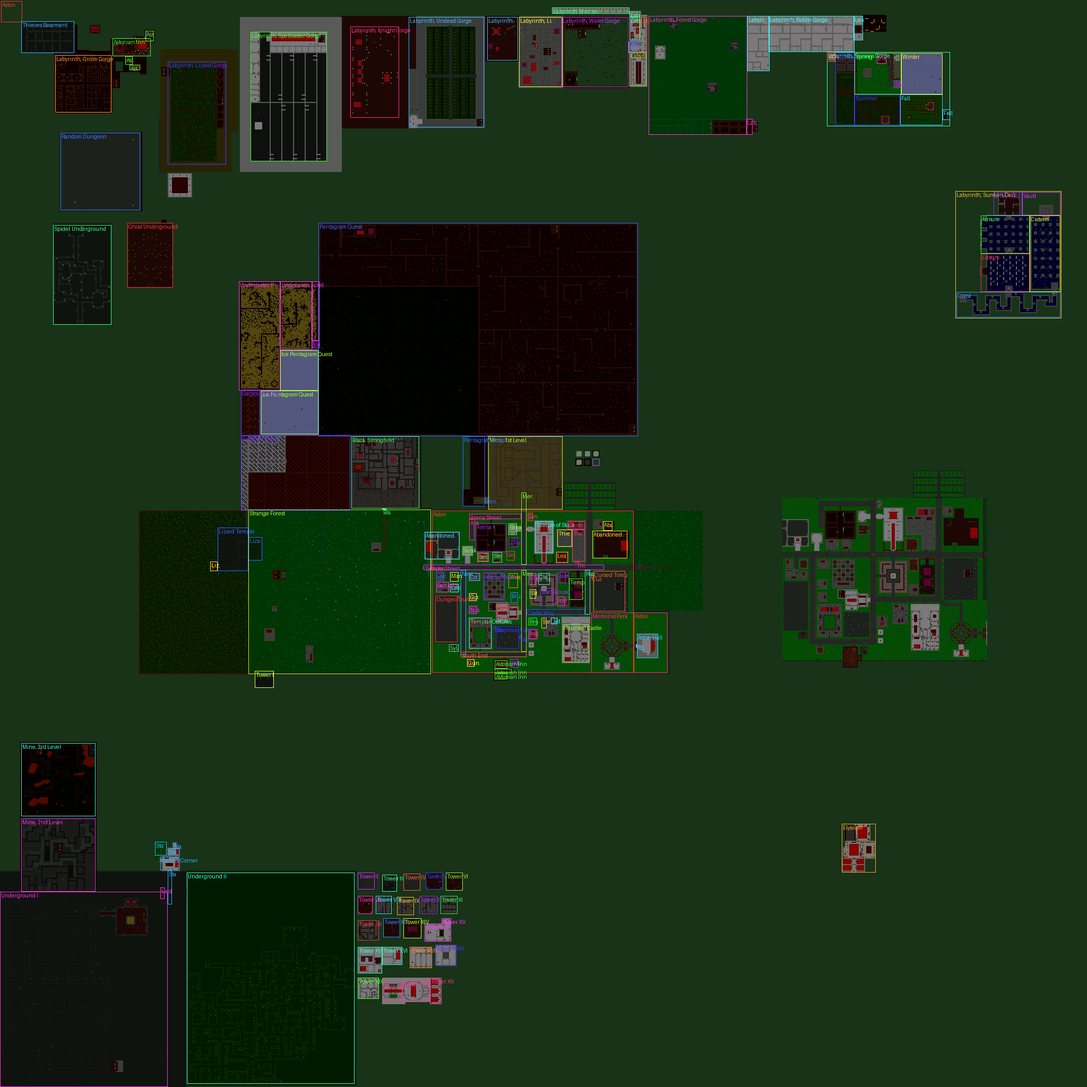
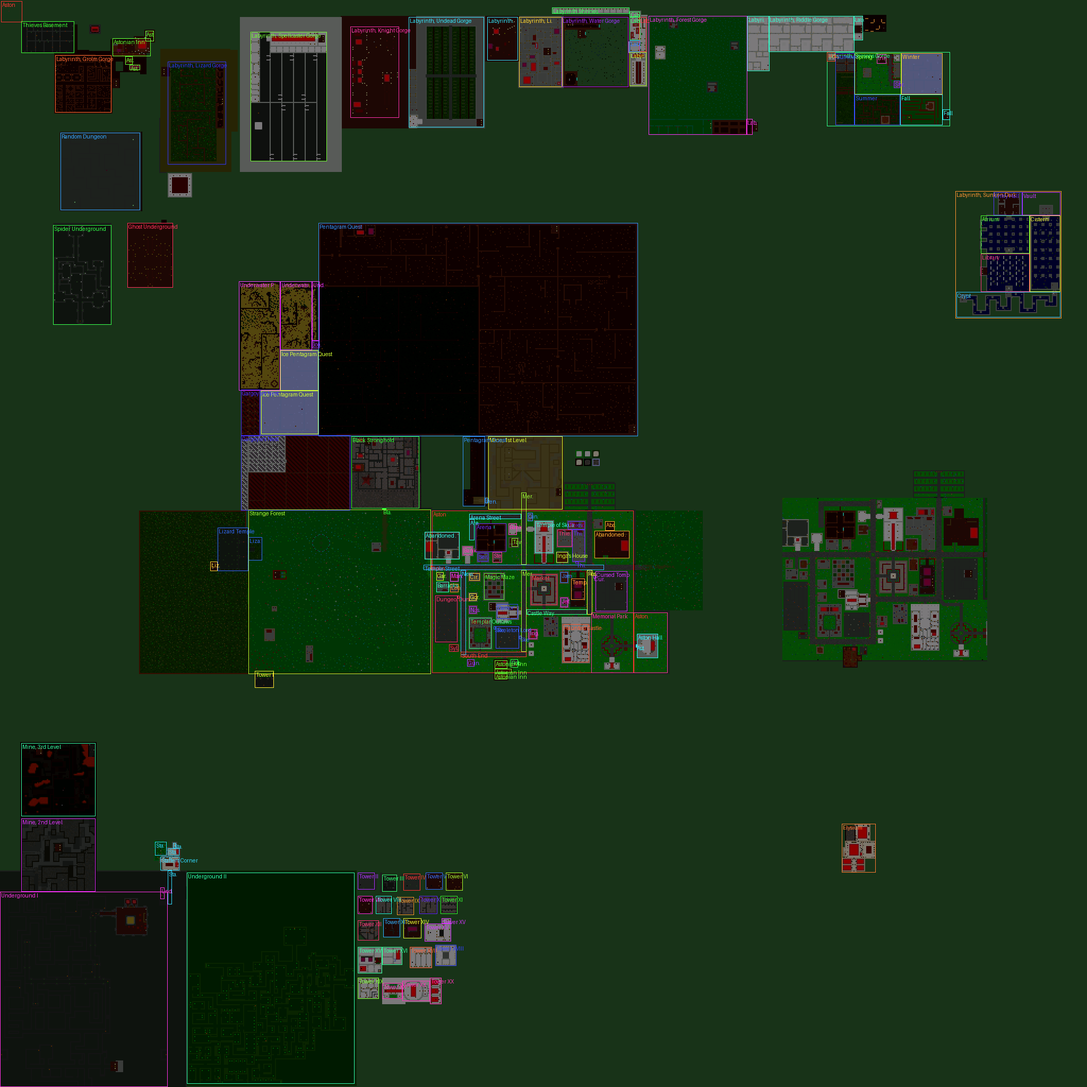
Aston zones after the move: Market, shifted east side, Inga / Jefferson / Jamil, gone shops removed
Claude-Session: https://claude.ai/code/session_01AHK8GgmwgakCxXUFzHRFJm

diff --git a/docs/world_zones.md b/docs/world_zones.md
@@ -17,161 +17,152 @@ Shown by `/who`, by NPCs when asked where you are, and in server logs. A spot in
 | 7 | Underground I | 840,0 | 1023,157 | "in Underground I" |
 | 8 | Underground I | 836,151 | 846,154 | "in Underground I" |
 | 9 | Temple of Skua | 491,504 | 520,520 | "in the Temple of Skua" |
-| 10 | Leather Armor Shop | 520,524 | 529,534 | "in the Leather Armor Shop" |
-| 11 | Jamil's House | 539,525 | 548,532 | "in Jamil's House" |
-| 12 | Temple of the Purple One | 545,536 | 564,548 | "in the Temple of the Purple One" |
-| 13 | Thieves House I | 499,539 | 528,550 | "in the Thieves House I" |
-| 14 | Thieves House I | 491,535 | 498,550 | "in the Thieves House I" |
-| 15 | Thieves House I | 529,542 | 530,544 | "in the Thieves House I" |
-| 16 | Thieves Basement | 20,20 | 49,69 | "in the Thieves Basement" |
-| 17 | Thieves House II | 499,525 | 514,538 | "in the Thieves House II" |
-| 18 | Temple Street | 532,399 | 536,568 | "on Temple Street" |
-| 19 | Rose Street | 537,551 | 578,555 | "on Rose Street" |
-| 20 | Cursed Tomb | 538,559 | 575,588 | "in the Cursed Tomb" |
-| 21 | Cursed Tomb | 542,557 | 544,558 | "in the Cursed Tomb" |
-| 22 | Castle Way | 574,496 | 578,550 | "on Castle Way" |
-| 23 | Haunted Castle | 588,530 | 623,554 | "in the Haunted Castle" |
-| 24 | Inga's House | 562,525 | 570,531 | "in Inga's House" |
-| 25 | Jefferson's House | 582,519 | 587,524 | "in Jefferson's House" |
-| 26 | Steel Armor Shop | 582,510 | 591,514 | "in the Steel Armor Shop" |
-| 27 | Joe's House | 554,509 | 570,520 | "in Joe's House" |
-| 28 | Bronze Armor Shop | 582,498 | 588,505 | "in the Bronze Armor Shop" |
-| 29 | Damor's Magic Shop | 569,468 | 582,487 | "in Damor's Magic Shop" |
-| 30 | Brunhild's Shop | 558,481 | 567,487 | "in Brunhild's Shop" |
-| 31 | Sirjan's House | 555,499 | 563,504 | "in Sirjan's House" |
-| 32 | Crystal Armor Shop | 540,498 | 550,504 | "in the Crystal Armor Shop" |
-| 33 | Cloth Armor Shop | 540,507 | 550,517 | "in the Cloth Armor Shop" |
-| 34 | Weapon Shop | 540,479 | 553,487 | "in the Weapon Shop" |
-| 35 | Tavern of the Blue Ogre | 507,482 | 514,487 | "in the Tavern of the Blue Ogre" |
-| 36 | Bank | 515,436 | 522,444 | "in the Bank" |
-| 37 | Bank | 493,479 | 503,486 | "in the Bank" |
-| 38 | Arena Street | 484,442 | 488,490 | "on Arena Street" |
-| 39 | Arena Street | 489,442 | 508,446 | "on Arena Street" |
-| 40 | Cirrus' House | 540,442 | 546,451 | "in Cirrus' House" |
-| 41 | Gunther's House | 621,440 | 627,446 | "in Gunther's House" |
-| 42 | Robin's House | 621,481 | 628,487 | "in Robin's House" |
-| 43 | Syleia's House | 607,423 | 613,431 | "in Syleia's House" |
-| 44 | Gina's Shop | 483,497 | 490,501 | "in Gina's Shop" |
-| 45 | Garna's Shop | 539,411 | 546,417 | "in Garna's Shop" |
-| 46 | Manfred's House | 539,424 | 547,431 | "in Manfred's House" |
-| 47 | Barracks | 548,411 | 557,422 | "in the Barracks" |
-| 48 | Leopold's House | 550,424 | 557,431 | "in Leopold's House" |
-| 49 | Serena's House | 521,450 | 528,459 | "in Serena's House" |
-| 50 | Magic Maze | 540,456 | 564,474 | "in the Magic Maze" |
-| 51 | Steven's House | 520,464 | 529,472 | "in Steven's House" |
-| 52 | Golden Armor Shop | 519,477 | 527,484 | "in the Golden Armor Shop" |
-| 53 | New Street | 537,434 | 616,438 | "on New Street" |
-| 54 | Gordon's House | 559,442 | 565,448 | "in Gordon's House" |
-| 55 | Nasir's House | 571,442 | 577,448 | "in Nasir's House" |
-| 56 | Templar Outlaws | 582,442 | 610,462 | "at Templar Outlaws" |
-| 57 | South End | 614,434 | 618,495 | "on South End" |
-| 58 | Skeleton Lord | 590,467 | 610,488 | "at Skeleton Lord" |
-| 59 | Skeleton Lord | 590,465 | 592,466 | "at Skeleton Lord" |
-| 60 | Skeleton Lord | 599,489 | 601,490 | "at Skeleton Lord" |
-| 61 | Merchant's Way | 537,491 | 613,495 | "on Merchant's Way" |
-| 62 | Merchant's Way | 464,491 | 531,495 | "on Merchant's Way" |
-| 63 | Ingrid's House | 593,498 | 601,505 | "in Ingrid's House" |
-| 64 | Abandoned Kwai Clan Hall | 501,400 | 526,432 | "in the Abandoned Kwai Clan Hall" |
-| 65 | Abandoned Gorn Clan Hall | 500,558 | 525,590 | "in the Abandoned Gorn Clan Hall" |
-| 66 | Abandoned Gorn Clan Hall | 491,568 | 499,576 | "in the Abandoned Gorn Clan Hall" |
-| 67 | Arena | 493,448 | 519,476 | "in the Arena" |
-| 68 | Black Stronghold | 411,331 | 478,394 | "in the Black Stronghold" |
-| 69 | Black Stronghold | 479,360 | 479,363 | "in the Black Stronghold" |
-| 70 | Dungeon of Doors | 561,410 | 604,430 | "in the Dungeon of Doors" |
-| 71 | Dungeon of Doors | 561,431 | 563,432 | "in the Dungeon of Doors" |
-| 72 | Random Dungeon | 125,57 | 197,131 | "in the Random Dungeon" |
-| 73 | Mine, 1st Level | 411,460 | 479,529 | "in the Mine, 1st Level" |
-| 74 | Mine, 2nd Level | 771,20 | 839,89 | "in the Mine, 2nd Level" |
-| 75 | Mine, 3rd Level | 700,20 | 768,89 | "in the Mine, 3rd Level" |
-| 76 | Labyrinth, Grolm Gorge | 52,52 | 105,104 | "in the Labyrinth, Grolm Gorge" |
-| 77 | Labyrinth, Lizard Gorge | 58,158 | 154,212 | "in the Labyrinth, Lizard Gorge" |
-| 78 | Labyrinth, Spellcaster Gorge | 30,236 | 151,307 | "in the Labyrinth, Spellcaster Gorge" |
-| 79 | Labyrinth, Knight Gorge | 25,330 | 110,375 | "in the Labyrinth, Knight Gorge" |
-| 80 | Labyrinth, Undead Gorge | 16,385 | 119,455 | "in the Labyrinth, Undead Gorge" |
-| 81 | Labyrinth, Undead Gorge | 16,459 | 56,487 | "in the Labyrinth, Undead Gorge" |
-| 82 | Labyrinth, Light&Dark Gorge | 16,489 | 81,529 | "in the Labyrinth, Light&Dark Gorge" |
-| 83 | Labyrinth, Water Gorge | 16,529 | 81,591 | "in the Labyrinth, Water Gorge" |
-| 84 | Labyrinth, Final Entry | 16,593 | 37,602 | "in the Labyrinth, Final Entry" |
-| 85 | Labyrinth, Final Entry | 11,593 | 15,602 | "in the Labyrinth, Final Entry" |
-| 86 | Labyrinth, Final Preparations | 16,602 | 48,608 | "in the Labyrinth, Final Preparations" |
-| 87 | Labyrinth, Final Test | 38,593 | 48,602 | "in the Labyrinth, Final Test" |
-| 88 | Labyrinth, Final Reward | 49,593 | 80,608 | "in the Labyrinth, Final Reward" |
-| 89 | Labyrinth, Forest Gorge | 15,611 | 126,703 | "in the Labyrinth, Forest Gorge" |
-| 90 | Labyrinth, Forest Gorge | 112,703 | 126,708 | "in the Labyrinth, Forest Gorge" |
-| 91 | Labyrinth, Riddle Gorge | 15,704 | 66,724 | "in the Labyrinth, Riddle Gorge" |
-| 92 | Labyrinth, Riddle Gorge | 15,724 | 48,804 | "in the Labyrinth, Riddle Gorge" |
-| 93 | Labyrinth, Riddle Gorge | 15,804 | 37,812 | "in the Labyrinth, Riddle Gorge" |
-| 94 | Labyrinth, Sunken Dark | 180,900 | 299,999 | "in the Labyrinth, Sunken Dark" |
-| 95 | Entry Hall | 181,936 | 202,962 | "in the Entry Hall" |
-| 96 | Atrium | 203,924 | 238,969 | "in the Atrium" |
-| 97 | Library | 239,924 | 274,969 | "in the Library" |
-| 98 | Crypt | 275,901 | 298,998 | "in the Crypt" |
-| 99 | Cistern | 203,970 | 274,998 | "in the Cistern" |
-| 100 | Vault | 181,963 | 202,998 | "in the Vault" |
-| 101 | Labyrinth, Seasons Gorge | 49,779 | 118,894 | "in the Labyrinth, Seasons Gorge" |
-| 102 | Hourglass Chamber | 49,779 | 57,786 | "in the Hourglass Chamber" |
-| 103 | Summer | 50,787 | 117,804 | "in Summer" |
-| 104 | Summer | 89,805 | 117,847 | "in Summer" |
-| 105 | Spring | 50,805 | 88,848 | "in Spring" |
-| 106 | Inn | 51,826 | 59,834 | "in the Inn" |
-| 107 | Fall | 89,848 | 117,887 | "in Fall" |
-| 108 | Fall | 103,888 | 112,894 | "in Fall" |
-| 109 | Winter | 50,849 | 88,887 | "in Winter" |
-| 110 | Shrine of Change | 76,842 | 82,847 | "in the Shrine of Change" |
-| 111 | Spider Underground | 212,50 | 305,104 | "in the Spider Underground" |
-| 112 | Ghost Underground | 210,120 | 270,162 | "in the Ghost Underground" |
-| 113 | Pentagram Quest | 210,300 | 410,600 | "in the Pentagram Quest" |
-| 114 | Pentagram Quest | 411,436 | 476,456 | "in the Pentagram Quest" |
-| 115 | Pentagram Quest | 469,457 | 473,459 | "in the Pentagram Quest" |
-| 116 | Ice Pentagram Quest | 368,246 | 408,299 | "in the Ice Pentagram Quest" |
-| 117 | Ice Pentagram Quest | 330,264 | 367,299 | "in the Ice Pentagram Quest" |
-| 118 | Underwater Pentagram Quest | 265,225 | 367,263 | "in the Underwater Pentagram Quest" |
-| 119 | Underwater Pentagram Quest | 265,264 | 329,293 | "in the Underwater Pentagram Quest" |
-| 120 | Underwater Pentagram Quest | 265,294 | 320,300 | "in the Underwater Pentagram Quest" |
-| 121 | Underground II | 822,176 | 1020,333 | "in the Underground II" |
-| 122 | Elysium | 776,793 | 821,824 | "in the Elysium" |
-| 123 | Gargoyle's Nest | 367,227 | 410,244 | "in the Gargoyle's Nest" |
-| 124 | Gargoyle's Nest | 410,227 | 480,329 | "in the Gargoyle's Nest" |
-| 125 | Astonian Inn | 622,466 | 629,477 | "in the Astonian Inn" |
-| 126 | Astonian Inn | 630,466 | 633,481 | "in the Astonian Inn" |
-| 127 | Astonian Inn | 61,122 | 65,131 | "in the Astonian Inn" |
-| 128 | Astonian Inn | 53,118 | 60,124 | "in the Astonian Inn" |
-| 129 | Astonian Inn | 36,106 | 52,141 | "in the Astonian Inn" |
-| 130 | Astonian Inn | 29,137 | 38,144 | "in the Astonian Inn" |
-| 131 | Astonian Inn | 634,466 | 639,477 | "in the Astonian Inn" |
-| 132 | Memorial Park | 577,557 | 633,628 | "in Memorial Park" |
-| 133 | Staffers Corner | 820,158 | 851,161 | "in the Staffers Corner" |
-| 134 | Staffers Corner | 807,151 | 819,168 | "in the Staffers Corner" |
-| 135 | Staffers Corner | 793,146 | 805,156 | "in the Staffers Corner" |
-| 136 | Staffers Corner | 799,158 | 805,168 | "in the Staffers Corner" |
-| 137 | Staffers Corner | 794,163 | 798,165 | "in the Staffers Corner" |
-| 138 | Tower I | 632,240 | 647,257 | "in the Tower I" |
-| 139 | Tower II | 822,337 | 837,352 | "in the Tower II" |
-| 140 | Tower III | 824,360 | 839,373 | "in the Tower III" |
-| 141 | Tower IV | 823,380 | 838,395 | "in the Tower IV" |
-| 142 | Tower V | 822,401 | 837,416 | "in the Tower V" |
-| 143 | Tower VI | 822,420 | 838,435 | "in the Tower VI" |
-| 144 | Tower VII | 844,337 | 860,350 | "in the Tower VII" |
-| 145 | Tower VIII | 844,354 | 860,368 | "in the Tower VIII" |
-| 146 | Tower IX | 845,374 | 861,389 | "in the Tower IX" |
-| 147 | Tower X | 844,395 | 860,411 | "in the Tower X" |
-| 148 | Tower XI | 844,415 | 860,430 | "in the Tower XI" |
-| 149 | Tower XII | 867,337 | 885,356 | "in the Tower XII" |
-| 150 | Tower XIII | 865,361 | 882,376 | "in the Tower XIII" |
-| 151 | Tower XIV | 865,380 | 883,396 | "in the Tower XIV" |
-| 152 | Tower XV | 870,400 | 886,424 | "in the Tower XV" |
-| 153 | Tower XV | 865,416 | 869,424 | "in the Tower XV" |
-| 154 | Tower XVI | 892,337 | 916,359 | "in the Tower XVI" |
-| 155 | Tower XVI | 892,360 | 908,378 | "in the Tower XVI" |
-| 156 | Tower XVII | 892,386 | 911,406 | "in the Tower XVII" |
-| 157 | Tower XVIII | 890,410 | 909,429 | "in the Tower XVIII" |
-| 158 | Tower XIX | 921,337 | 940,356 | "in the Tower XIX" |
-| 159 | Tower XX | 926,360 | 940,378 | "in the Tower XX" |
-| 160 | Tower XX | 924,379 | 942,404 | "in the Tower XX" |
-| 161 | Tower XX | 921,405 | 945,415 | "in the Tower XX" |
-| 162 | Aston Hall | 597,600 | 619,619 | "in Aston Hall" |
-| 163 | Aston Hall | 607,599 | 609,599 | "in Aston Hall" |
-| 164 | Lizard Temple Shrine | 529,198 | 537,204 | "in the Lizard Temple Shrine" |
-| 165 | Lizard Temple Shrine | 529,198 | 537,204 | "in the Lizard Temple Shrine" |
-| 166 | Ice Pents Shrine | 321,294 | 327,300 | "in the Ice Pents Shrine" |
-| 167 | Labyrinth Shrines | 7,520 | 12,592 | "in the Labyrinth Shrines" |
+| 10 | Temple of the Purple One | 545,538 | 564,550 | "in the Temple of the Purple One" |
+| 11 | Thieves House I | 499,539 | 528,550 | "in the Thieves House I" |
+| 12 | Thieves House I | 491,535 | 498,550 | "in the Thieves House I" |
+| 13 | Thieves House I | 529,542 | 530,544 | "in the Thieves House I" |
+| 14 | Thieves Basement | 20,20 | 49,69 | "in the Thieves Basement" |
+| 15 | Thieves House II | 499,525 | 514,538 | "in the Thieves House II" |
+| 16 | Temple Street | 532,399 | 536,568 | "on Temple Street" |
+| 17 | Rose Street | 537,553 | 578,557 | "on Rose Street" |
+| 18 | Cursed Tomb | 538,561 | 575,590 | "in the Cursed Tomb" |
+| 19 | Cursed Tomb | 542,559 | 544,560 | "in the Cursed Tomb" |
+| 20 | Castle Way | 574,496 | 578,552 | "on Castle Way" |
+| 21 | Haunted Castle | 588,530 | 623,554 | "in the Haunted Castle" |
+| 22 | Damor's Magic Shop | 569,468 | 582,487 | "in Damor's Magic Shop" |
+| 23 | Tavern of the Blue Ogre | 507,482 | 514,487 | "in the Tavern of the Blue Ogre" |
+| 24 | Bank | 515,436 | 522,444 | "in the Bank" |
+| 25 | Bank | 493,479 | 503,486 | "in the Bank" |
+| 26 | Arena Street | 484,442 | 488,490 | "on Arena Street" |
+| 27 | Arena Street | 489,442 | 508,446 | "on Arena Street" |
+| 28 | Cirrus' House | 540,442 | 546,451 | "in Cirrus' House" |
+| 29 | Gunther's House | 621,440 | 627,446 | "in Gunther's House" |
+| 30 | Robin's House | 621,481 | 628,487 | "in Robin's House" |
+| 31 | Syleia's House | 607,423 | 613,431 | "in Syleia's House" |
+| 32 | Gina's Shop | 483,497 | 490,501 | "in Gina's Shop" |
+| 33 | Garna's Shop | 539,411 | 546,417 | "in Garna's Shop" |
+| 34 | Manfred's House | 539,424 | 547,431 | "in Manfred's House" |
+| 35 | Barracks | 548,411 | 557,422 | "in the Barracks" |
+| 36 | Leopold's House | 550,424 | 557,431 | "in Leopold's House" |
+| 37 | Serena's House | 521,450 | 528,459 | "in Serena's House" |
+| 38 | Magic Maze | 540,456 | 564,474 | "in the Magic Maze" |
+| 39 | Steven's House | 520,464 | 529,472 | "in Steven's House" |
+| 40 | New Street | 537,434 | 616,438 | "on New Street" |
+| 41 | Gordon's House | 559,442 | 565,448 | "in Gordon's House" |
+| 42 | Nasir's House | 571,442 | 577,448 | "in Nasir's House" |
+| 43 | Templar Outlaws | 582,442 | 610,462 | "at Templar Outlaws" |
+| 44 | South End | 614,434 | 618,495 | "on South End" |
+| 45 | Skeleton Lord | 590,467 | 610,488 | "at Skeleton Lord" |
+| 46 | Skeleton Lord | 590,465 | 592,466 | "at Skeleton Lord" |
+| 47 | Skeleton Lord | 599,489 | 601,490 | "at Skeleton Lord" |
+| 48 | Merchant's Way | 537,491 | 613,495 | "on Merchant's Way" |
+| 49 | Merchant's Way | 464,491 | 531,495 | "on Merchant's Way" |
+| 50 | Ingrid's House | 593,498 | 601,505 | "in Ingrid's House" |
+| 51 | Abandoned Kwai Clan Hall | 501,400 | 526,432 | "in the Abandoned Kwai Clan Hall" |
+| 52 | Abandoned Gorn Clan Hall | 500,560 | 525,592 | "in the Abandoned Gorn Clan Hall" |
+| 53 | Abandoned Gorn Clan Hall | 491,570 | 499,578 | "in the Abandoned Gorn Clan Hall" |
+| 54 | Arena | 493,448 | 519,476 | "in the Arena" |
+| 55 | Black Stronghold | 411,331 | 478,394 | "in the Black Stronghold" |
+| 56 | Black Stronghold | 479,360 | 479,363 | "in the Black Stronghold" |
+| 57 | Dungeon of Doors | 561,410 | 604,430 | "in the Dungeon of Doors" |
+| 58 | Dungeon of Doors | 561,431 | 563,432 | "in the Dungeon of Doors" |
+| 59 | Random Dungeon | 125,57 | 197,131 | "in the Random Dungeon" |
+| 60 | Mine, 1st Level | 411,460 | 479,529 | "in the Mine, 1st Level" |
+| 61 | Mine, 2nd Level | 771,20 | 839,89 | "in the Mine, 2nd Level" |
+| 62 | Mine, 3rd Level | 700,20 | 768,89 | "in the Mine, 3rd Level" |
+| 63 | Labyrinth, Grolm Gorge | 52,52 | 105,104 | "in the Labyrinth, Grolm Gorge" |
+| 64 | Labyrinth, Lizard Gorge | 58,158 | 154,212 | "in the Labyrinth, Lizard Gorge" |
+| 65 | Labyrinth, Spellcaster Gorge | 30,236 | 151,307 | "in the Labyrinth, Spellcaster Gorge" |
+| 66 | Labyrinth, Knight Gorge | 25,330 | 110,375 | "in the Labyrinth, Knight Gorge" |
+| 67 | Labyrinth, Undead Gorge | 16,385 | 119,455 | "in the Labyrinth, Undead Gorge" |
+| 68 | Labyrinth, Undead Gorge | 16,459 | 56,487 | "in the Labyrinth, Undead Gorge" |
+| 69 | Labyrinth, Light&Dark Gorge | 16,489 | 81,529 | "in the Labyrinth, Light&Dark Gorge" |
+| 70 | Labyrinth, Water Gorge | 16,529 | 81,591 | "in the Labyrinth, Water Gorge" |
+| 71 | Labyrinth, Final Entry | 16,593 | 37,602 | "in the Labyrinth, Final Entry" |
+| 72 | Labyrinth, Final Entry | 11,593 | 15,602 | "in the Labyrinth, Final Entry" |
+| 73 | Labyrinth, Final Preparations | 16,602 | 48,608 | "in the Labyrinth, Final Preparations" |
+| 74 | Labyrinth, Final Test | 38,593 | 48,602 | "in the Labyrinth, Final Test" |
+| 75 | Labyrinth, Final Reward | 49,593 | 80,608 | "in the Labyrinth, Final Reward" |
+| 76 | Labyrinth, Forest Gorge | 15,611 | 126,703 | "in the Labyrinth, Forest Gorge" |
+| 77 | Labyrinth, Forest Gorge | 112,703 | 126,708 | "in the Labyrinth, Forest Gorge" |
+| 78 | Labyrinth, Riddle Gorge | 15,704 | 66,724 | "in the Labyrinth, Riddle Gorge" |
+| 79 | Labyrinth, Riddle Gorge | 15,724 | 48,804 | "in the Labyrinth, Riddle Gorge" |
+| 80 | Labyrinth, Riddle Gorge | 15,804 | 37,812 | "in the Labyrinth, Riddle Gorge" |
+| 81 | Labyrinth, Sunken Dark | 180,900 | 299,999 | "in the Labyrinth, Sunken Dark" |
+| 82 | Entry Hall | 181,936 | 202,962 | "in the Entry Hall" |
+| 83 | Atrium | 203,924 | 238,969 | "in the Atrium" |
+| 84 | Library | 239,924 | 274,969 | "in the Library" |
+| 85 | Crypt | 275,901 | 298,998 | "in the Crypt" |
+| 86 | Cistern | 203,970 | 274,998 | "in the Cistern" |
+| 87 | Vault | 181,963 | 202,998 | "in the Vault" |
+| 88 | Labyrinth, Seasons Gorge | 49,779 | 118,894 | "in the Labyrinth, Seasons Gorge" |
+| 89 | Hourglass Chamber | 49,779 | 57,786 | "in the Hourglass Chamber" |
+| 90 | Summer | 50,787 | 117,804 | "in Summer" |
+| 91 | Summer | 89,805 | 117,847 | "in Summer" |
+| 92 | Spring | 50,805 | 88,848 | "in Spring" |
+| 93 | Inn | 51,826 | 59,834 | "in the Inn" |
+| 94 | Fall | 89,848 | 117,887 | "in Fall" |
+| 95 | Fall | 103,888 | 112,894 | "in Fall" |
+| 96 | Winter | 50,849 | 88,887 | "in Winter" |
+| 97 | Shrine of Change | 76,842 | 82,847 | "in the Shrine of Change" |
+| 98 | Spider Underground | 212,50 | 305,104 | "in the Spider Underground" |
+| 99 | Ghost Underground | 210,120 | 270,162 | "in the Ghost Underground" |
+| 100 | Pentagram Quest | 210,300 | 410,600 | "in the Pentagram Quest" |
+| 101 | Pentagram Quest | 411,436 | 476,456 | "in the Pentagram Quest" |
+| 102 | Pentagram Quest | 469,457 | 473,459 | "in the Pentagram Quest" |
+| 103 | Ice Pentagram Quest | 368,246 | 408,299 | "in the Ice Pentagram Quest" |
+| 104 | Ice Pentagram Quest | 330,264 | 367,299 | "in the Ice Pentagram Quest" |
+| 105 | Underwater Pentagram Quest | 265,225 | 367,263 | "in the Underwater Pentagram Quest" |
+| 106 | Underwater Pentagram Quest | 265,264 | 329,293 | "in the Underwater Pentagram Quest" |
+| 107 | Underwater Pentagram Quest | 265,294 | 320,300 | "in the Underwater Pentagram Quest" |
+| 108 | Underground II | 822,176 | 1020,333 | "in the Underground II" |
+| 109 | Elysium | 776,793 | 821,824 | "in the Elysium" |
+| 110 | Gargoyle's Nest | 367,227 | 410,244 | "in the Gargoyle's Nest" |
+| 111 | Gargoyle's Nest | 410,227 | 480,329 | "in the Gargoyle's Nest" |
+| 112 | Astonian Inn | 622,466 | 629,477 | "in the Astonian Inn" |
+| 113 | Astonian Inn | 630,466 | 633,481 | "in the Astonian Inn" |
+| 114 | Astonian Inn | 61,122 | 65,131 | "in the Astonian Inn" |
+| 115 | Astonian Inn | 53,118 | 60,124 | "in the Astonian Inn" |
+| 116 | Astonian Inn | 36,106 | 52,141 | "in the Astonian Inn" |
+| 117 | Astonian Inn | 29,137 | 38,144 | "in the Astonian Inn" |
+| 118 | Astonian Inn | 634,466 | 639,477 | "in the Astonian Inn" |
+| 119 | Memorial Park | 577,557 | 633,628 | "in Memorial Park" |
+| 120 | Staffers Corner | 820,158 | 851,161 | "in the Staffers Corner" |
+| 121 | Staffers Corner | 807,151 | 819,168 | "in the Staffers Corner" |
+| 122 | Staffers Corner | 793,146 | 805,156 | "in the Staffers Corner" |
+| 123 | Staffers Corner | 799,158 | 805,168 | "in the Staffers Corner" |
+| 124 | Staffers Corner | 794,163 | 798,165 | "in the Staffers Corner" |
+| 125 | Tower I | 632,240 | 647,257 | "in the Tower I" |
+| 126 | Tower II | 822,337 | 837,352 | "in the Tower II" |
+| 127 | Tower III | 824,360 | 839,373 | "in the Tower III" |
+| 128 | Tower IV | 823,380 | 838,395 | "in the Tower IV" |
+| 129 | Tower V | 822,401 | 837,416 | "in the Tower V" |
+| 130 | Tower VI | 822,420 | 838,435 | "in the Tower VI" |
+| 131 | Tower VII | 844,337 | 860,350 | "in the Tower VII" |
+| 132 | Tower VIII | 844,354 | 860,368 | "in the Tower VIII" |
+| 133 | Tower IX | 845,374 | 861,389 | "in the Tower IX" |
+| 134 | Tower X | 844,395 | 860,411 | "in the Tower X" |
+| 135 | Tower XI | 844,415 | 860,430 | "in the Tower XI" |
+| 136 | Tower XII | 867,337 | 885,356 | "in the Tower XII" |
+| 137 | Tower XIII | 865,361 | 882,376 | "in the Tower XIII" |
+| 138 | Tower XIV | 865,380 | 883,396 | "in the Tower XIV" |
+| 139 | Tower XV | 870,400 | 886,424 | "in the Tower XV" |
+| 140 | Tower XV | 865,416 | 869,424 | "in the Tower XV" |
+| 141 | Tower XVI | 892,337 | 916,359 | "in the Tower XVI" |
+| 142 | Tower XVI | 892,360 | 908,378 | "in the Tower XVI" |
+| 143 | Tower XVII | 892,386 | 911,406 | "in the Tower XVII" |
+| 144 | Tower XVIII | 890,410 | 909,429 | "in the Tower XVIII" |
+| 145 | Tower XIX | 921,337 | 940,356 | "in the Tower XIX" |
+| 146 | Tower XX | 926,360 | 940,378 | "in the Tower XX" |
+| 147 | Tower XX | 924,379 | 942,404 | "in the Tower XX" |
+| 148 | Tower XX | 921,405 | 945,415 | "in the Tower XX" |
+| 149 | Aston Hall | 597,600 | 619,619 | "in Aston Hall" |
+| 150 | Aston Hall | 607,599 | 609,599 | "in Aston Hall" |
+| 151 | Lizard Temple Shrine | 529,198 | 537,204 | "in the Lizard Temple Shrine" |
+| 152 | Lizard Temple Shrine | 529,198 | 537,204 | "in the Lizard Temple Shrine" |
+| 153 | Ice Pents Shrine | 321,294 | 327,300 | "in the Ice Pents Shrine" |
+| 154 | Labyrinth Shrines | 7,520 | 12,592 | "in the Labyrinth Shrines" |
+| 155 | Market | 541,500 | 569,524 | "in the Market" |
+| 156 | Jamil's House | 539,528 | 548,534 | "in Jamil's House" |
+| 157 | Inga's House | 520,524 | 529,534 | "in Inga's House" |
+| 158 | Jefferson's House | 563,528 | 571,534 | "in Jefferson's House" |

diff --git a/CHANGES.md b/CHANGES.md
@@ -240,6 +240,7 @@ A new labyrinth part after Lab 10 (map 180,900 - 299,999). The labyrinth gate af
 - The shop labelled "Cloth Armor Shop" is Geoffrey's **Crystal Armor Shop** (its sign says so); Ruth's real **Cloth Armor Shop**, across from the Temple of Skua, had no name. On South End, **Gunther's House** and **Robin's House** now have names. So do **Syleia's House**, just south of the Dungeon of Doors, and **Gina's Shop**, right outside the mines.
 - **Steven's House** reached into the arena; it now covers the house only.
 - **Aston rearranged** (Nov 10): Cody built the new town as a copy in the editor (at x 443-627, y 737-929; the copy is still there) and it was copied over Aston tile by tile (6,816 tiles and their items; `tools/world/town_apply.c` with `tools/world/town_rearrange/town_tiles.spec`): a **Market** square in the middle of town (where the Crystal / Cloth Armor Shops, Sirjan's and Joe's House were), a graveyard with a shrine and the Grave Keeper's house north of town, new houses, and the east side (Jamil's House, the Temple of the Purple One, the Cursed Tomb, the Abandoned Gorn Clan Hall) 2 tiles further east. The holes to Underground I and to the Ghost King, and the ladders back up, still lead to the same places; the Outlaw Hideout's Room 2 ladder now comes up at 488,566 (its old spot is a wall of the Grave Keeper's house). The Cursed Tomb chest moved with its contents. NPCs: the merchants who lost their shops (Geoffrey, Ruth, Sandra, Karl, Gertrud, Brunhild, Antonia, Henry, Hagen) and Sirjan, Jefferson, a Guard and a Janitor wait in the Temple of Skua for their new places; Joe's gang (Joe, James, John, Joshua) waits in the closed new house at 593-598,520-524; Inga lives in Sandra's old Leather Armor Shop; Jamil, the Priest and the Cursed Tomb / Gorn Clan Hall monsters moved 2 east with their buildings (`town_npcs.spec`). Door spots of the NPCs that moved were cleared (Inga uses Sandra's old door, Jamil his moved door; `tools/world/npcdata.c`, `town_npcdata.spec`).
+- **Aston's zones after the move** (Nov 10): the **Market** is one zone (541,500 - 569,524, "in the Market"); the Temple of the Purple One, the Cursed Tomb, the Abandoned Gorn Clan Hall and Rose Street moved 2 east with their buildings; Castle Way reaches 2 tiles further east (to 552); **Inga's House** is now the old Leather Armor Shop (between the Temple of Skua and the Thieves Houses), **Jefferson's House** is Inga's old house, **Jamil's House** fits his rebuilt house. The zones of the buildings that are gone were removed (Joe's House, Sirjan's House, the Crystal / Cloth / Bronze / Steel / Golden / Leather Armor Shops, the Weapon Shop, Brunhild's Shop, Jefferson's old house); Cody adds the zones of the new buildings himself.
 - Four buildings west of New Street now have names: **Garna's Shop** (torches, lock picks, flasks), **Manfred's House**, **Leopold's House** and the **Barracks** (Peacekeepers and a Cityguard).
 - **Ice Pentagram Quest** was one rectangle that also took in part of the water next to it; it is now two rectangles around the ice only, and the water is named **Underwater Pentagram Quest**.
 - The second "Thieves House I" rectangle (20,20 - 49,69) is the thieves' underground area, now named **Thieves Basement**.

diff --git a/docs/TODO.md b/docs/TODO.md
@@ -166,10 +166,8 @@ back, the prices. (Ties in with the Market below.)
   Joe's gang (Joe, James, John, Joshua) waits in the closed house at 593-598,520-524 until their new house is ready.
   Set their door spots again where they get a house (cleared).
 - New market NPCs (Titanium armor, the other weapon metals, Titanium weapons): tell Claude names / stock, or make them.
-- Zones: the Market, the graveyard, the new houses; move or remove the zones of buildings that are gone (Joe's House,
-  Crystal / Cloth / Bronze / Steel / Golden Armor Shops, Weapon Shop, Brunhild's Shop, Sirjan's House...) and shift
-  Jamil's House, the Temple of the Purple One, the Cursed Tomb and the Gorn Clan Hall 2 east. Then Claude redraws
-  `docs/world_zones.png`.
+- Zones: done Nov 10 (Market, shifted ones, Inga / Jefferson / Jamil); Cody adds the new buildings' zones.
+- Moves still to do in the editor: Inga's house is ready (she's in it); Jefferson moves into Inga's old house.
 - Steven's new house (Cody builds it).
 - Clear the copy at x 443-627, y 737-929 when happy (it has a spider spawner).
 - Old door spots that were already wrong before (part of TODO "door loop"): the Barkeeper (508,488) and a Thief
@@ -233,9 +231,9 @@ instead of a separate editor.
 ### ● Flags and zones for the new Aston (Nov 10)
 - ~~Editor: clear a type of flag, drag a rectangle to add / remove a flag~~ (DONE Nov 10: Flags tab Add / Remove,
   Brush / Rectangle, Clear in the view / in a zone).
-- Zones: being talked through with Cody (picture `MyV2\aston_zones_plan.png`: green still fits, blue moves with its
-  building, red changed / gone, yellow new). Then Claude writes the new `zones.dat` (game stopped, or Cody saves it in
-  the Zones tab) and redraws the zone maps.
+- ~~Zones~~ (DONE Nov 10, see CHANGES "Aston's zones after the move"). Left for Cody: zones for the Grave Keeper's
+  house (not decided yet), Joe's gang's new house, Steven's new house and any other new building; then "Re-check
+  zones" for the area clears (the Cursed Tomb and Gorn Clan Hall moved), and Claude redraws `docs/world_zones.png`.
 - Tile flags: Cody fixes them by hand in the Flags tab (`MyV2\aston_flags_zones.png` shows them all).
 
 ### ○ Editor minimap redraws by itself (new, Nov 10)
